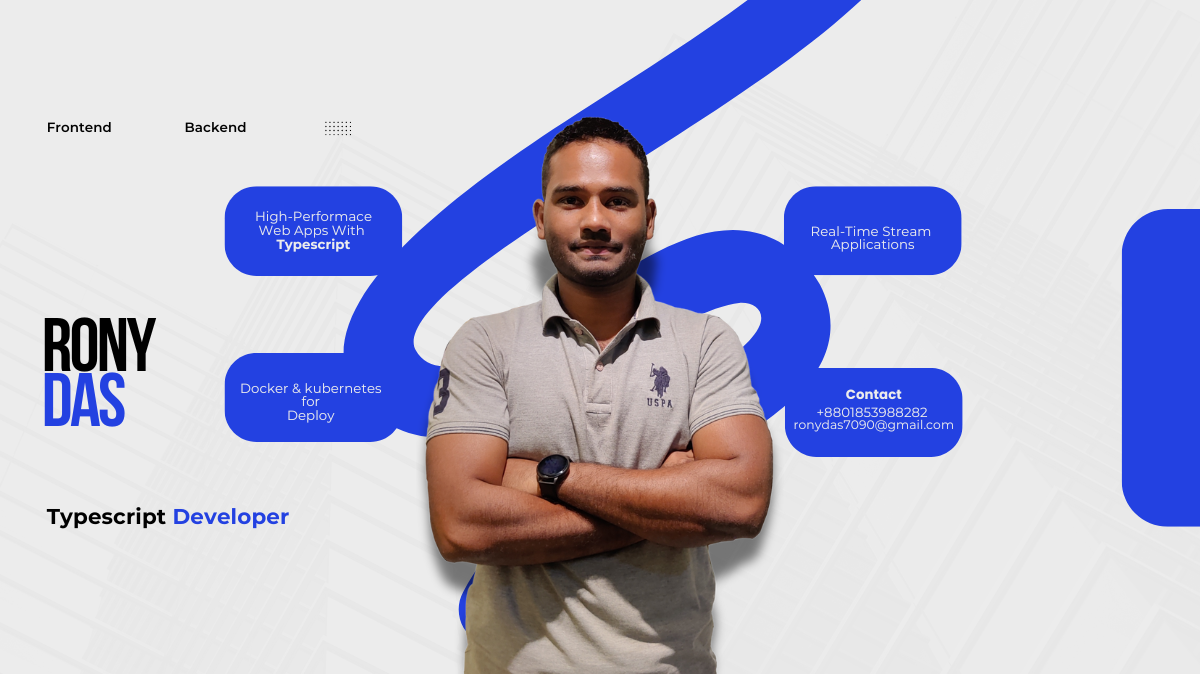
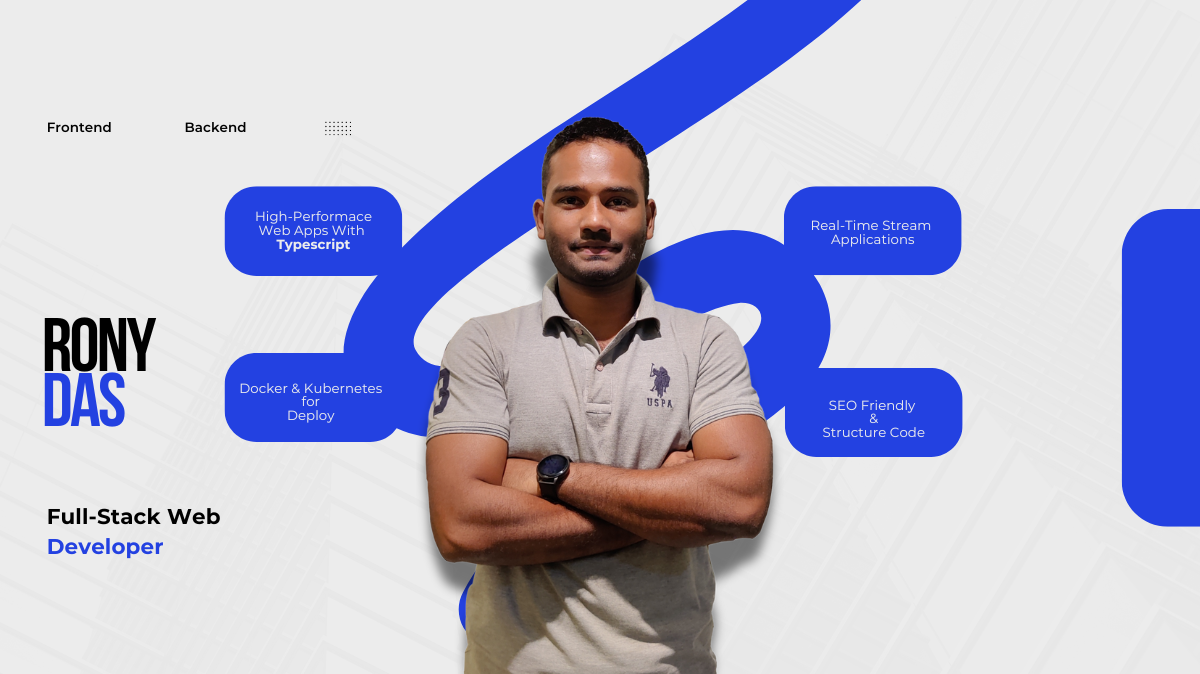
seo add

diff --git a/src/components/about/About.tsx b/src/components/about/About.tsx
@@ -52,22 +52,56 @@ const About: FC<AboutProps> = () => {
                 <Award />
               </span>
               <h5 className='text-lg font-semibold'>Practical Experience</h5>
-              <small className='text-sm opacity-80'>Building Real Projects</small>
+              <small className='text-sm opacity-80'>
+                Building Real Projects
+              </small>
               <BorderBeam duration={8} size={300} />
             </div>
           </div>
           <div className='relative'>
-            <p className='text-lg leading-relaxed text-gray-700 bg-white/70 rounded p-6 shadow-sm'>
-              Hi, I&#39;m{' '}
-              <span className='font-bold text-primary'>Rony Das</span>, a
-              passionate Web Developer since 2019. I specialize in{' '}
-              <span className='font-semibold'>
-                React, Next.js, JavaScript, Python, Django
-              </span>{' '}
-              and more. My priority is to get your business online the right
-              way, with industry-standard design and all the functionality you
-              need. Let&#39;s connect and bring your project to life! See my
-              resume below.
+            <p className='relative mt-4 bg-gradient-to-br from-white/90 via-blue-50/80 to-primary/10 border border-primary/20 rounded-xl shadow-lg p-6 lg:p-8 text-sm lg:text-base leading-relaxed text-gray-800 backdrop-blur-md transition-all duration-300 hover:shadow-primary/40'>
+              <span className='block text-xl lg:text-2xl font-bold text-primary mb-2'>
+                👋 Hi, I&apos;m{' '}
+                <span className='text-primary font-extrabold'>Rony Das</span>{' '}
+                <span className='text-base text-gray-500 font-medium'>
+                  (26 y/o)
+                </span>
+              </span>
+              <span className='block mb-3 text-gray-600 italic'>
+                Passionate about building real-time, scalable web applications.
+              </span>
+              <span className='block mb-3'>
+                My programming journey began in{' '}
+                <span className='font-semibold text-primary'>2019</span>,
+                sparked by curiosity about real-time systems in stock markets
+                and trading. This fascination led me to explore how such robust
+                applications are engineered.
+              </span>
+              <span className='block mb-3'>
+                I started with{' '}
+                <span className='font-semibold text-blue-700'>C</span> and{' '}
+                <span className='font-semibold text-blue-700'>C++</span>, then
+                joined{' '}
+                <span className='font-semibold text-primary'>
+                  CSE Fundamentals with Phitron
+                </span>{' '}
+                to master problem-solving, logic, and data structures. I honed
+                my skills through countless problems on online judges and
+                participated in various courses and bootcamps.
+              </span>
+              <span className='block mb-3'>
+                With a solid foundation, I transitioned to development, building
+                both real-world and practice projects. Currently, I’m focused on{' '}
+                <span className='font-semibold text-primary'>
+                  system design
+                </span>{' '}
+                and scalable architectures.
+              </span>
+              <span className='block'>
+                I thrive on challenging projects and am quick to adapt to any
+                tech stack.<span className='font-semibold text-primary'> My goal is to make meaningful contributions to every
+                team I join. </span>
+              </span>
             </p>
 
             <ShineBorder shineColor={['#A07CFE', '#FE8FB5', '#FFBE7B']} />
@@ -76,8 +110,8 @@ const About: FC<AboutProps> = () => {
           <div className='flex justify-center lg:justify-start'>
             <Link
               href={process.env.MY_RESUME!}
-              target="_blank"
-              rel="noopener noreferrer"
+              target='_blank'
+              rel='noopener noreferrer'
               className='inline-flex items-center gap-2 px-8 py-3 bg-primary text-white font-semibold rounded-lg shadow-lg hover:bg-primary/90 transition-all duration-200 text-lg'
             >
               My Resume <Eye size={20} />

diff --git a/src/app/layout.tsx b/src/app/layout.tsx
@@ -19,37 +19,46 @@ const montserrat = Montserrat({
 const SITE_URL = process.env.NEXT_PUBLIC_SITE_URL || 'https://ronydas.dev';
 const SEO_DESCRIPTION =
   process.env.MY_SEO_DESCRIPTION ||
-  'Ronydas is a Typescript developer building high-quality web apps.';
+  'Ronydas is a Full-Stack Web Developer building high-quality web apps.';
 
 export const metadata: Metadata = {
   metadataBase: new URL(SITE_URL),
   title: {
-    default: 'Ronydas | Typescript Developer',
-    template: '%s | Ronydas: Typescript Developer',
+    default: 'Ronydas | Full-Stack Web Developer',
+    template: '%s | Ronydas: Full-Stack Web Developer',
   },
   description: SEO_DESCRIPTION,
   keywords: [
     'ronydas',
+    'coder rony',
     'coderrony',
-    'full stack developer',
-    'software engineer',
-    'web developer',
+    'full-stack developer',
+    'full-stack web developer',
     'typescript developer',
     'react developer',
+    'nextjs 15 developer',
+    'real-time web apps',
+    'nodejs developer',
+    'mongodb developer',
+    'software engineer portfolio',
+    'freelance web developer',
+    'developer from Bangladesh',
+    'frontend developer',
+    'backend developer',
   ],
   openGraph: {
     type: 'website',
     locale: 'en_BD',
     url: SITE_URL,
     siteName: 'Ronydas',
-    title: 'Ronydas | Typescript Developer',
+    title: 'Ronydas | Full-Stack Web Developer',
     description: SEO_DESCRIPTION,
     images: [
       {
         url: `${SITE_URL}/opengraph-image.png`,
         width: 1200,
         height: 630,
-        alt: 'Ronydas - Typescript Developer',
+        alt: 'Ronydas - Full-Stack Web Developer',
         type: 'image/png',
       },
     ],
@@ -58,7 +67,7 @@ export const metadata: Metadata = {
     card: 'summary_large_image',
     site: '@ronydas',
     creator: '@ronydas',
-    title: 'Ronydas - Typescript Developer',
+    title: 'Ronydas - Full-Stack Web Developer',
     description: SEO_DESCRIPTION,
     images: [`${SITE_URL}/opengraph-image.png`],
   },

diff --git a/src/components/LoadingIndicator.tsx b/src/components/LoadingIndicator.tsx
@@ -1,0 +1,30 @@
+import { FC } from 'react';
+
+interface LoadingIndicatorProps {
+  className?: string;
+}
+
+const LoadingIndicator: FC<LoadingIndicatorProps> = () => {
+  return (
+    <div role='status' className='flex justify-center'>
+    <svg
+      aria-hidden='true'
+      className='w-8 h-8 text-gray-200 animate-spin dark:text-gray-600 fill-green-600'
+      viewBox='0 0 100 101'
+      fill='none'
+      xmlns='http://www.w3.org/2000/svg'>
+      <path
+        d='M100 50.5908C100 78.2051 77.6142 100.591 50 100.591C22.3858 100.591 0 78.2051 0 50.5908C0 22.9766 22.3858 0.59082 50 0.59082C77.6142 0.59082 100 22.9766 100 50.5908ZM9.08144 50.5908C9.08144 73.1895 27.4013 91.5094 50 91.5094C72.5987 91.5094 90.9186 73.1895 90.9186 50.5908C90.9186 27.9921 72.5987 9.67226 50 9.67226C27.4013 9.67226 9.08144 27.9921 9.08144 50.5908Z'
+        fill='currentColor'
+      />
+      <path
+        d='M93.9676 39.0409C96.393 38.4038 97.8624 35.9116 97.0079 33.5539C95.2932 28.8227 92.871 24.3692 89.8167 20.348C85.8452 15.1192 80.8826 10.7238 75.2124 7.41289C69.5422 4.10194 63.2754 1.94025 56.7698 1.05124C51.7666 0.367541 46.6976 0.446843 41.7345 1.27873C39.2613 1.69328 37.813 4.19778 38.4501 6.62326C39.0873 9.04874 41.5694 10.4717 44.0505 10.1071C47.8511 9.54855 51.7191 9.52689 55.5402 10.0491C60.8642 10.7766 65.9928 12.5457 70.6331 15.2552C75.2735 17.9648 79.3347 21.5619 82.5849 25.841C84.9175 28.9121 86.7997 32.2913 88.1811 35.8758C89.083 38.2158 91.5421 39.6781 93.9676 39.0409Z'
+        fill='currentFill'
+      />
+    </svg>
+    <span className='sr-only'>Loading...</span>
+  </div>
+  );
+};
+
+export default LoadingIndicator;

diff --git a/src/components/header/HeaderContent.tsx b/src/components/header/HeaderContent.tsx
@@ -32,9 +32,10 @@ const HeaderContent: FC<HeaderContentProps> = () => {
         transition={{ duration: 1, delay: 0.4 }}
         viewport={{ once: true }}
       >
-        I&#39;m ready to transform your vision into a modern, mobile-responsive,
-        and highly performant website or web application today. Send me the
-        details.
+        As a Full-Stack Web Developer, I specialize in building scalable and
+        real-time web applications with modern design and clean, maintainable
+        code. Let’s turn your ideas into fast, responsive, and high-performing
+        solutions.
       </motion.p>
 
       <motion.div

diff --git a/src/app/robots.ts b/src/app/robots.ts
@@ -1,0 +1,18 @@
+
+import { MetadataRoute } from 'next';
+
+// Replace with your actual domain
+const BASE_URL = process.env.NEXT_PUBLIC_SITE_URL || 'https://www.ronydas.dev';
+
+export default function robots(): MetadataRoute.Robots {
+  return {
+    rules: [
+      {
+        userAgent: '*',
+        allow: '/',
+      },
+    ],
+    sitemap: `${BASE_URL}/sitemap.xml`,
+    host: BASE_URL,
+  };
+}

diff --git a/src/app/sitemap.ts b/src/app/sitemap.ts
@@ -1,0 +1,14 @@
+
+import { MetadataRoute } from 'next';
+
+const BASE_URL = process.env.NEXT_PUBLIC_SITE_URL || 'https://www.ronydas.dev';
+
+
+export default async function sitemap(): Promise<MetadataRoute.Sitemap> {
+ 
+
+
+  return [{ url: BASE_URL }];
+
+
+}

diff --git a/src/app/loading.tsx b/src/app/loading.tsx
@@ -1,0 +1,6 @@
+import LoadingIndicator from "@/components/LoadingIndicator";
+
+
+export default function Loading() {
+  return  <LoadingIndicator />
+}
